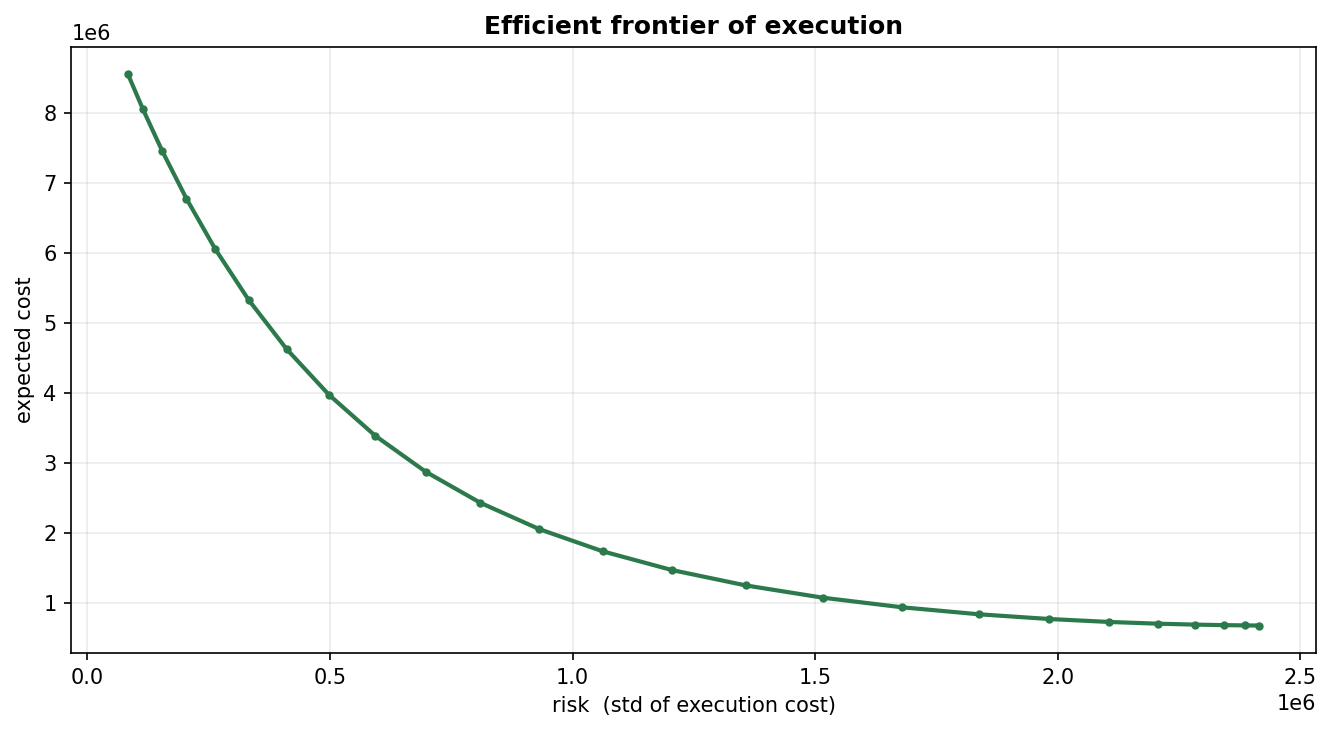
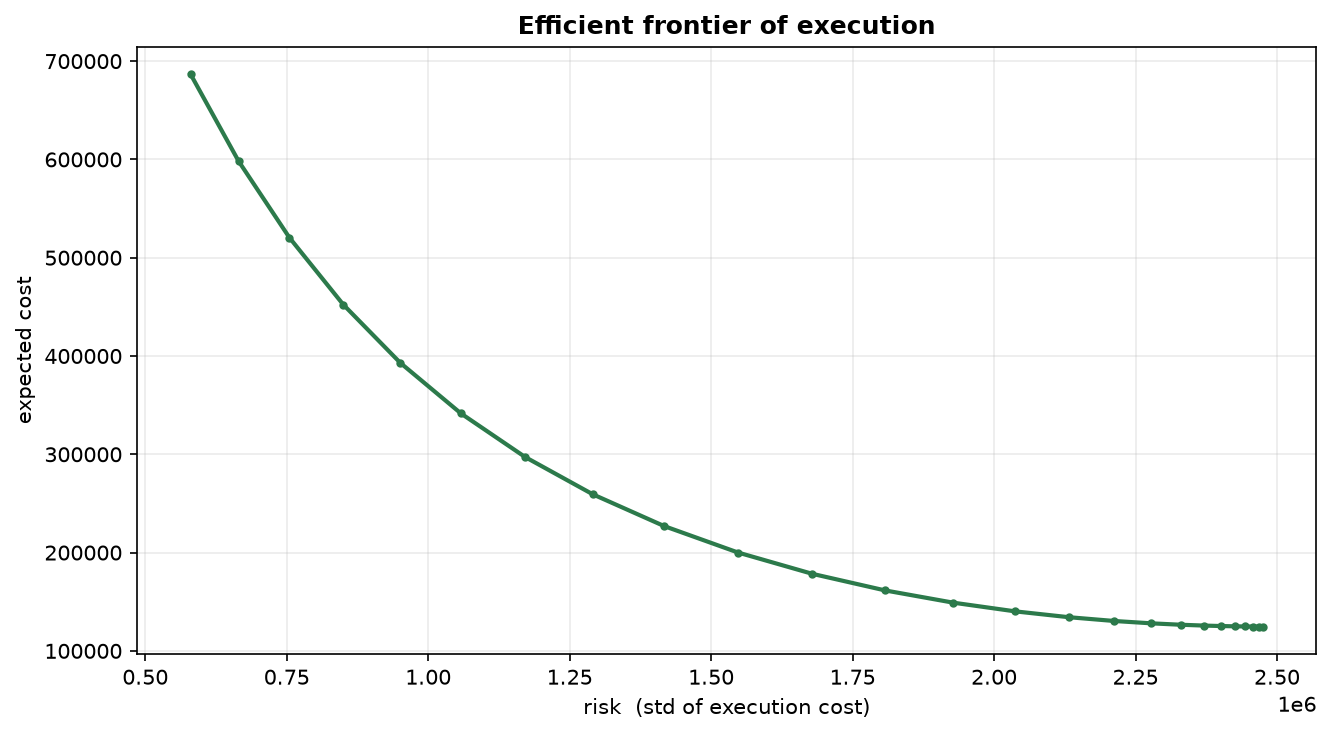
Calibrate to a real book by default, and give impact the right units
Real data was behind a --calibrate flag and the default was a made-up book. It is
the default now, with --offline for the illustrative case. Running it that way
exposed three things that were wrong.

The order size was hardcoded at 1,000,000 units. Against BTC-PERPETUAL's real ADV
of 5,377 contracts that is 186 days of volume, and a linear temporary-impact model
describes nothing at that size - it reported a $743M cost on a $77bn order. Size is
a participation rate now, defaulting to 10% of ADV.

eta = 1/ADV is dimensionally wrong. It carries units of 1/(contracts per day), and
on a $77,000 instrument it produced two cents of slippage per contract: 0.0 bps on
a $41M order. eta = sigma/ADV says trading one full ADV in a day costs about one
daily volatility of slippage - dimensionally consistent, and it puts a 10%-ADV
order at 7.7 bps against TWAP's 4.8, which is a number you can argue with. Cost
scales the way a linear model should: 1.7 bps at 2% of ADV, 19.3 at 25%.

lambda has the same problem. It divides through by sigma^2 and eta_tilde, so it
carries the instrument's units, and the default of 2e-6 - fine on a book priced at
100 - gives a half-life of 0.02 days on a real BTC calibration. Urgency is
specified as a half-life in days and lambda is solved for. The efficient frontier
sweeps half-lives from T/20 to 2T rather than a raw lambda grid that only means
something for one instrument.

epsilon was 0.0625, a US equity tick from before decimalisation. It is half the
[…]

diff --git a/scripts/run_execution.py b/scripts/run_execution.py
@@ -1,8 +1,9 @@
 """
 Compute the optimal liquidation schedule and the efficient frontier.
 
-    python scripts/run_execution.py              # example parameters (offline)
-    python scripts/run_execution.py --calibrate  # pull real sigma/ADV from Deribit
+    python scripts/run_execution.py                    # real Deribit calibration
+    python scripts/run_execution.py --participation 0.05
+    python scripts/run_execution.py --offline          # illustrative params, no network
 """
 from __future__ import annotations
 
@@ -22,27 +23,59 @@ from execution.viz import plot_frontier, plot_trajectory  # noqa: E402
 
 def main() -> None:
     parser = argparse.ArgumentParser(description="Almgren-Chriss optimal execution.")
-    parser.add_argument("--calibrate", action="store_true", help="pull real sigma/ADV from Deribit")
+    parser.add_argument("--offline", action="store_true",
+                        help="skip the network and use illustrative parameters")
     parser.add_argument("--instrument", default="BTC-PERPETUAL")
+    parser.add_argument("--participation", type=float, default=0.10,
+                        help="order size as a fraction of ADV (default: 0.10)")
+    parser.add_argument("--half-life", type=float, default=1.0,
+                        help="urgency, as the trajectory half-life in days (default: 1.0)")
     args = parser.parse_args()
 
-    sigma, eta = 2.0, 2.5e-6
-    if args.calibrate:
+    size_note = f"{args.participation:.0%} of ADV"
+    if args.offline:
+        sigma, eta, epsilon, price = 2.0, 2.5e-6, 0.0625, 100.0
+        X = 1_000_000
+        size_note = "fixed size, no ADV reference"
+        print("offline: illustrative parameters, not calibrated to any instrument")
+    else:
         from execution.data import calibrate_from_deribit
         cal = calibrate_from_deribit(args.instrument)
-        sigma = cal["sigma"]
-        eta = 1.0 / cal["adv"]   # impact ~ 1/ADV: deeper books are cheaper to trade
-        print(f"calibrated from {args.instrument}: price={cal['price']:.1f} sigma={sigma:.3f} ADV={cal['adv']:.0f}")
+        sigma, price = cal["sigma"], cal["price"]
+        # Temporary impact must come out in price units. eta = 1/ADV has units of
+        # 1/(units per day) and produced impact of two cents a unit on a $77,000
+        # instrument - 0.0 bps on a $41M order, which is not a cost model.
+        # eta = sigma/ADV says trading one full ADV in a day costs about one daily
+        # volatility of slippage, the standard linear rule of thumb, and is
+        # dimensionally consistent: [$/day] / [units/day] = $ per unit of rate.
+        eta = sigma / cal["adv"]
+        epsilon = cal["half_spread"]
+        # Size the order off the book we just measured. 1,000,000 units against a
+        # 5,377-unit ADV is 186 days of volume, and linear impact says nothing there.
+        X = args.participation * cal["adv"]
+        print(f"{args.instrument}: price {price:,.0f}  sigma {sigma:,.0f} $/day  "
+              f"ADV {cal['adv']:,.0f}  half-spread {epsilon:.2f}")
 
-    ac = AlmgrenChriss(X=1_000_000, T=5, N=20, sigma=sigma, eta=eta, gamma=eta / 10,
-                       epsilon=0.0625, lam=2e-6)
+    # lambda is unit-dependent; pick it from the half-life the user actually wants.
+    probe = AlmgrenChriss(X=X, T=5, N=20, sigma=sigma, eta=eta, gamma=eta / 10,
+                          epsilon=epsilon, lam=1e-12)
+    ac = AlmgrenChriss(X=X, T=5, N=20, sigma=sigma, eta=eta, gamma=eta / 10,
+                       epsilon=epsilon, lam=probe.lam_for_half_life(args.half_life))
     cost, var = ac.expected_cost(), ac.variance()
     twap_cost, twap_var = ac.twap()
-    print(f"\nLiquidate {ac.X:,.0f} units over T={ac.T} in {ac.N} slices")
-    print(f"  Almgren-Chriss : cost {cost:>12,.0f}   risk(std) {np.sqrt(var):>12,.0f}   half-life {np.log(2)/ac.kappa():.2f}")
-    print(f"  TWAP           : cost {twap_cost:>12,.0f}   risk(std) {np.sqrt(twap_var):>12,.0f}")
+    notional = ac.X * price
+    print(f"\nLiquidate {ac.X:,.0f} units ({size_note}, "
+          f"${notional:,.0f} notional) over T={ac.T} days in {ac.N} slices")
+    print(f"{'':<17}{'cost ($)':>14}{'  (bps)':>9}{'risk std ($)':>16}{'half-life':>11}")
+    print(f"  Almgren-Chriss {cost:>14,.0f}{1e4 * cost / notional:>9.1f}"
+          f"{np.sqrt(var):>16,.0f}{np.log(2) / ac.kappa():>11.2f}")
+    print(f"  TWAP           {twap_cost:>14,.0f}{1e4 * twap_cost / notional:>9.1f}"
+          f"{np.sqrt(twap_var):>16,.0f}{'—':>11}")
 
-    frontier = efficient_frontier(ac, np.logspace(-8, -4, 25))
+    # Sweep urgency from "a tenth of the window" to "the whole window", which is the
+    # readable range; a raw lambda grid is only meaningful for one instrument's units.
+    half_lives = np.geomspace(ac.T / 20, ac.T * 2, 25)
+    frontier = efficient_frontier(ac, np.array([probe.lam_for_half_life(h) for h in half_lives]))
     out = ROOT / "reports"
     (out / "figures").mkdir(parents=True, exist_ok=True)
     frontier.to_csv(out / "frontier.csv", index=False)

diff --git a/src/execution/data.py b/src/execution/data.py
@@ -1,9 +1,15 @@
 """
 Calibrate execution parameters from real market data (Deribit public API).
 
-Volatility (sigma) and average daily volume (ADV) are pulled from a real instrument so
-the impact/risk inputs aren't made up. The temporary-impact slope eta is then scaled by
-ADV (a common rule of thumb: impact grows as you take a larger share of daily volume).
+Volatility (sigma), average daily volume (ADV) and the live touch spread are pulled
+from a real instrument so the impact/risk inputs aren't made up. The temporary-impact
+slope eta is then scaled by ADV (a common rule of thumb: impact grows as you take a
+larger share of daily volume), and epsilon is half the quoted spread.
+
+The order size has to come from ADV too. Calibrating sigma and eta to a real book and
+then liquidating a hardcoded 1,000,000 units gives an order 186x the instrument's daily
+volume, where a linear temporary-impact model does not describe anything. Size is set
+as a participation rate instead.
 """
 from __future__ import annotations
 
@@ -13,6 +19,7 @@ import numpy as np
 import requests
 
 DERIBIT_CHART = "https://www.deribit.com/api/v2/public/get_tradingview_chart_data"
+DERIBIT_TICKER = "https://www.deribit.com/api/v2/public/ticker"
 
 
 def calibrate_from_deribit(instrument: str = "BTC-PERPETUAL", days: int = 180) -> dict:
@@ -28,4 +35,14 @@ def calibrate_from_deribit(instrument: str = "BTC-PERPETUAL", days: int = 180) -
 
     daily_log_ret = np.diff(np.log(close))
     sigma_price = float(close[-1] * daily_log_ret.std())   # $ stdev per day
-    return {"price": float(close[-1]), "sigma": sigma_price, "adv": float(volume.mean())}
+
+    # Half the live touch spread is the fixed cost of crossing, which is what
+    # epsilon means in Almgren-Chriss. It was hardcoded at 0.0625 - an eighth,
+    # i.e. a US equity tick from before decimalisation.
+    tick = requests.get(DERIBIT_TICKER, params={"instrument_name": instrument}, timeout=30)
+    tick.raise_for_status()
+    t = tick.json()["result"]
+    half_spread = 0.5 * (float(t["best_ask_price"]) - float(t["best_bid_price"]))
+
+    return {"price": float(close[-1]), "sigma": sigma_price,
+            "adv": float(volume.mean()), "half_spread": half_spread}

diff --git a/src/execution/model.py b/src/execution/model.py
@@ -50,6 +50,24 @@ class AlmgrenChriss:
                 "solution does not apply. Lower gamma, raise eta, or shorten tau.")
         return value
 
+    def lam_for_half_life(self, half_life: float) -> float:
+        """The risk aversion that gives a trajectory with this half-life, in days.
+
+        lambda is dimensioned - it divides through by sigma^2 and eta_tilde, both
+        of which carry the instrument's price and volume units. A default that
+        looked sensible on a made-up book (price 100, one million units) puts the
+        half-life at 0.02 days on a real BTC calibration, i.e. liquidate at once.
+        A half-life is the same number whatever you are trading, so state urgency
+        that way and solve for lambda:
+
+            cosh(kappa*tau) = 1 + k2*tau^2/2,  k2 = lambda*sigma^2/eta_tilde
+        """
+        if half_life <= 0:
+            raise ValueError(f"half_life must be positive, got {half_life}")
+        kappa = np.log(2.0) / half_life
+        k2 = 2.0 * (np.cosh(kappa * self.tau) - 1.0) / self.tau ** 2
+        return float(k2 * self.eta_tilde / self.sigma ** 2)
+
     def kappa(self) -> float:
         """Decay rate of the optimal trajectory. Bigger lambda/sigma -> bigger kappa
         -> faster liquidation. Discrete form: cosh(kappa*tau) = 1 + 0.5 k2 tau^2."""

diff --git a/tests/test_execution.py b/tests/test_execution.py
@@ -71,3 +71,26 @@ def test_degenerate_impact_is_rejected_with_a_useful_message():
     ac = AlmgrenChriss(X=1_000, T=5, N=20, sigma=2.0, eta=1e-8, gamma=1.0, lam=1e-6)
     with pytest.raises(ValueError, match="eta_tilde"):
         ac.expected_cost()
+
+
+def test_half_life_round_trips_through_lambda():
+    """lambda is unit-dependent; a half-life is not. Solving one for the other has
+    to land back where it started, or urgency is not actually specifiable."""
+    ac = AlmgrenChriss(X=1_000, T=5, N=20, sigma=1_494.0, eta=1_494.0 / 5_377,
+                       gamma=(1_494.0 / 5_377) / 10, epsilon=2.0, lam=1e-12)
+    for target in (0.25, 1.0, 2.5, 10.0):
+        lam = ac.lam_for_half_life(target)
+        tuned = replace(ac, lam=lam)
+        assert abs(np.log(2) / tuned.kappa() - target) < 1e-6
+
+
+def test_half_life_must_be_positive():
+    ac = AlmgrenChriss(X=1_000, T=5, N=20, sigma=2.0, eta=2.5e-6,
+                       gamma=2.5e-7, epsilon=0.0625, lam=1e-9)
+    for bad in (0.0, -1.0):
+        try:
+            ac.lam_for_half_life(bad)
+        except ValueError as e:
+            assert "half_life must be positive" in str(e)
+        else:
+            raise AssertionError(f"expected ValueError for half_life={bad}")

diff --git a/README.md b/README.md
@@ -8,17 +8,36 @@ minimise `E[cost] + λ·Var[cost]` — and the optimal schedule comes out in clo
 
 ## The trade-off
 
-On the example book (liquidate 1,000,000 units over 5 days in 20 slices):
+Everything below is calibrated to a live Deribit book, not to chosen numbers.
+BTC-PERPETUAL on 2026-09-02: price $77,019, σ $1,494/day, ADV 5,377 contracts,
+touch spread $4.00. Liquidating over 5 days in 20 slices at a 1-day half-life:
 
-| Schedule | Expected cost | Risk (std of cost) |
-|---|--:|--:|
-| **Almgren–Chriss** | 2,355,346 | 832,878 |
-| TWAP (equal slices) | 681,250 | 2,484,955 |
+| order size | schedule | cost ($) | cost (bps) | risk, std ($) |
+|---|---|--:|--:|--:|
+| 2% of ADV | Almgren–Chriss | 1,410 | 1.7 | 124,003 |
+| ($8.3M) | TWAP | 930 | 1.1 | 199,707 |
+| 10% of ADV | **Almgren–Chriss** | 32,016 | **7.7** | 620,009 |
+| ($41.4M) | TWAP | 20,025 | 4.8 | 998,522 |
+| 25% of ADV | Almgren–Chriss | 199,592 | 19.3 | 1,549,986 |
+| ($103.5M) | TWAP | 124,648 | 12.0 | 2,496,246 |
 
-TWAP is cheaper on impact but carries **3× the risk** — it holds inventory longer.
-Almgren–Chriss front-loads the selling to cut that risk, and as risk-aversion `λ` rises
-it liquidates faster still (shorter half-life). Sweeping `λ` traces the **efficient
-frontier**: the best achievable cost for each level of risk.
+TWAP is cheaper on impact but carries **~60% more risk** — it holds inventory longer.
+Almgren–Chriss front-loads the selling to cut that risk, paying about 60% more in
+impact to take roughly 38% off the standard deviation. Which of those you want is the
+whole question, and sweeping urgency traces the **efficient frontier**: the best
+achievable cost at each level of risk.
+
+Two things the calibration forces you to get right, and neither is optional:
+
+**Size the order off the book you measured.** Liquidating a hardcoded 1,000,000 units
+against a 5,377-contract ADV is 186 days of volume, and a linear temporary-impact
+model describes nothing at that size. Orders are specified as a participation rate.
+
+**Impact has units.** `η = 1/ADV` carries units of 1/(contracts per day), and on a
+$77,000 instrument it produced two cents of slippage per contract — 0.0 bps on a
+$41M order, which is not a cost model. `η = σ/ADV` says trading one full ADV in a day
+costs about one daily volatility of slippage: dimensionally consistent, and it puts a
+10%-ADV order at 7.7 bps, which is a number you can argue with.
 
 ![Efficient frontier](reports/figures/efficient_frontier.png)
 
@@ -61,13 +80,23 @@ is convex — its slope at any point is $-1/\lambda$.
 
 ## Real-data calibration (`data.py`)
 
-`σ` and average daily volume are pulled from a **real Deribit instrument** so the inputs
-aren't invented; temporary impact scales as `1/ADV` (deeper books cost less to trade):
+`σ`, average daily volume and the live touch spread are pulled from a **real Deribit
+instrument**, and this is the default path — there is no invented book to fall back to
+unless you ask for one. Temporary impact scales as `σ/ADV`; `ε` is half the quoted
+spread, which used to be hardcoded at 0.0625, a US equity tick from before
+decimalisation.
+
+Urgency is specified as a **half-life in days** rather than as `λ`. `λ` divides through
+by `σ²` and `η̃`, so it carries the instrument's price and volume units: the old default
+of `2e-6` was reasonable on a made-up book and puts the half-life at 0.02 days on a real
+BTC calibration, i.e. liquidate immediately. A half-life is the same number whatever you
+are trading.
 
 ```bash
-uv run python scripts/run_execution.py              # example parameters (offline)
-uv run python scripts/run_execution.py --calibrate  # real sigma/ADV from Deribit (BTC-PERPETUAL)
-uv run pytest                                       # trajectory + frontier invariants
+uv run python scripts/run_execution.py                     # real Deribit calibration
+uv run python scripts/run_execution.py --participation 0.25 --half-life 0.5
+uv run python scripts/run_execution.py --offline           # illustrative, no network
+uv run pytest                                              # trajectory + frontier invariants
 ```
 
 ## Structure
